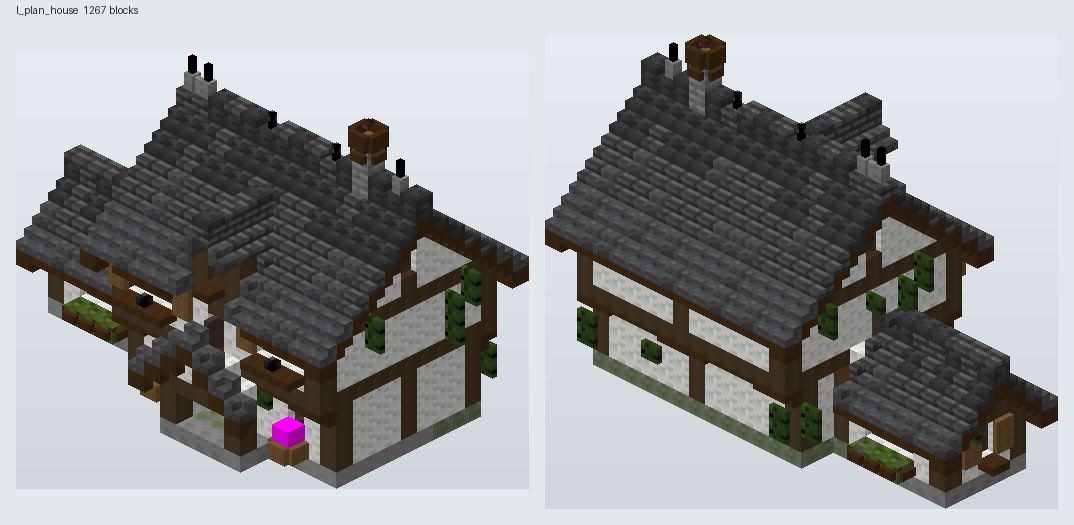
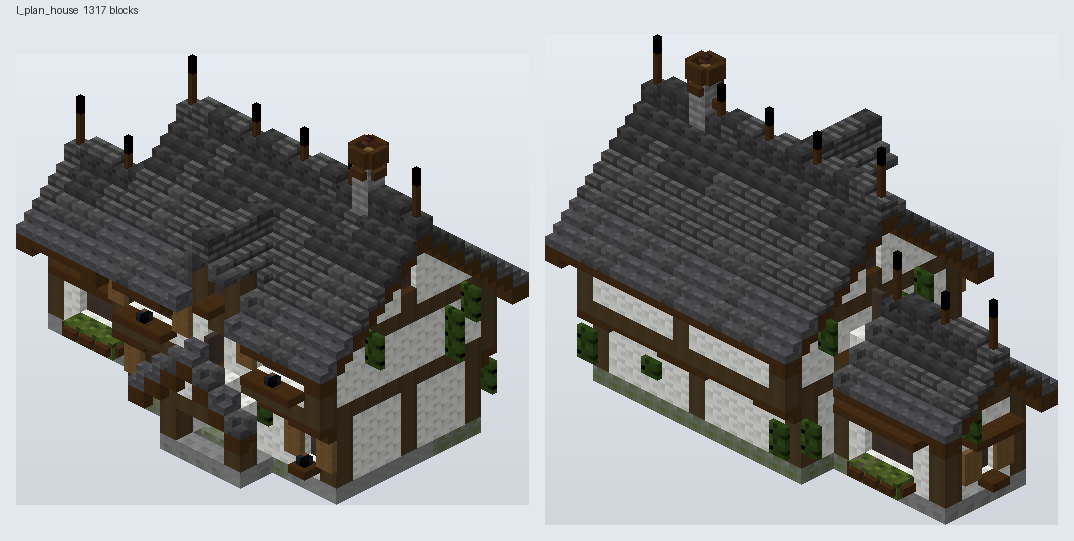
minecraft-builder: wings rise to meet the main eave, windows never open onto a roof, per-storey materials (stone piers), ridge spikes by default
Claude-Session: https://claude.ai/code/session_01A4uWhX18xXyhyv2GR6HyHU

Changed region(s): [[0.0, 0.061, 1.0, 0.9448], [0.338, 0.7619, 0.4609, 0.8838], [0.0307, 0.0, 0.1229, 0.0305]]

diff --git a/.claude/skills/minecraft-builder/scripts/parts.py b/.claude/skills/minecraft-builder/scripts/parts.py
@@ -445,8 +445,16 @@ def _body(ctx, s, st):
         floors.append(f); rects.append(list(r)); f += h
     plate = floors[-1] + storeys[-1] - 1
     posts_of = {}
+    base_M, base_fk, fk_of = M, fk, []
+    sov = s.get("storey_style", [])
     for i, (fl, rr, h) in enumerate(zip(floors, rects, storeys)):
         x0, z0, x1, z1 = rr
+        ov = sov[i] if i < len(sov) and sov[i] else {}
+        if ov:      # this storey in its own materials (a stone ground floor under a timber upper, 02-frame)
+            sst = dict(st); sst.update({k: v for k, v in ov.items() if k != "frame_kind"}); sst["_name"] = f"{st['_name']}.s{i}"
+            M = (lambda sst: (lambda role: ctx.mat(sst, role)))(sst); fk = ov.get("frame_kind", base_fk)
+        else: M, fk = base_M, base_fk
+        fk_of.append(fk)
         # ---- 3 floors: the floor layer (upper floors; ground floor done with the plinth)
         if i > 0:
             for x in range(x0 + 1, x1):
@@ -466,12 +474,14 @@ def _body(ctx, s, st):
                         else:
                             ctx.set(x, yy, z, "walls", "full", M("infill"))
                         continue
-                    if corner or t in posts:
+                    if fk == "piers" and corner:     # stone corner piers, timber posts and logs between
+                        ctx.set(x, yy, z, "frame", "full", M("pier") if "pier" in (ov or st) else M("quoin"))
+                    elif corner or t in posts:
                         ctx.set(x, yy, z, "frame", "full", M("frame"), axis="y")
                     elif beam:
                         ctx.set(x, yy, z, "frame", "full", M("frame"), axis=ax)
                     else:
-                        ctx.set(x, yy, z, "walls", "full", M("infill"))
+                        ctx.set(x, yy, z, "walls", "full", M("infill"), axis="y")   # log infill stands upright
                     if fk == "proud" and (corner or t in posts or beam):
                         ox, oz = DIRS[sd]
                         ctx.set(x + ox, yy, z + oz, "frame", "full", M("frame"), axis="y" if (corner or t in posts) else ax)
@@ -495,13 +505,36 @@ def _body(ctx, s, st):
                             x, z = wall_cell(rr, sd, t)
                             if min(t - a_, b_ - t) == 1: ctx.set(x, fl - 1, z, "frame", "slab", M("trim"), half="top")
                             else: ctx.set(x, fl - 1, z, "frame", "trapdoor", M("trim"), open=False, half="top", facing=sd)
+    M, fk = base_M, base_fk
     if fk == "stone" and len(storeys) > 1:   # string-course corners wrap with outer-corner stairs
         for i in range(1, len(storeys)):
             x0, z0, x1, z1 = rects[i]
             for (cx, cz, fa, fb) in ((x0 - 1, z0 - 1, "n", "w"), (x1 + 1, z0 - 1, "n", "e"), (x0 - 1, z1 + 1, "s", "w"), (x1 + 1, z1 + 1, "s", "e")):
                 fc, cn = corner_stair(fa, fb)
                 ctx.set(cx, floors[i], cz, "details", "stairs", M("infill"), facing=fc, half="top", corner=cn)
-    # ---- 5 openings
+    return {"floors": floors, "rects": rects, "plate": plate, "fk": fk, "y": y, "plinth": plinth, "storeys": storeys,
+            "posts_of": posts_of, "fk_of": fk_of}
+
+
+def _openings(ctx, s, st, B, H_blocks, H_extra, others):
+    """Stage 5 for one block, run once every roof field is known, so no window opens onto a roof: a
+    window is left out when another block's roof is in front of it or above its sill (it would look into
+    that roof or its attic), when a porch roof crosses the glass, when its wall faces another block, and
+    when the storey is too short for it under its own roof (no shutters left standing on a roof)."""
+    floors, rects, storeys, plinth, fk, plate = B["floors"], B["rects"], B["storeys"], B["plinth"], B["fk"], B["plate"]
+    posts_of = B["posts_of"]
+    inside_other = lambda c: any(r[0] <= c[0] <= r[2] and r[1] <= c[1] <= r[3] for ob in others for r in ob["rects"])
+    def blocked(rr, sd, t, fl, ww, wh, dropped):
+        ox, oz = DIRS[sd]; rx, rz = RIGHT_OF[sd]
+        x, z = wall_cell(rr, sd, t); top = fl + 1 + wh
+        if top > (plate if rr is rects[-1] else fl + storeys[rects.index(rr)] - 1): return "runs into its roof"
+        for k in range(-(ww // 2) - 1, ww // 2 + 2):
+            for out in (1, 2, 3):
+                c = (x + rx * k + ox * out, z + rz * k + oz * out)
+                if out == 1 and inside_other(c): return "faces another block"
+                if H_blocks.get(c, -99) >= fl + 1: return "looks onto a roof"
+                if fl + 1 <= H_extra.get(c, -99) <= top + 1: return "a porch roof crosses it"
+        return None
     dspec = s.get("door", {"side": "s"})
     dside, dt = (dspec or {}).get("side", "s"), (dspec or {}).get("at", 0)
     if dspec:
@@ -511,6 +544,7 @@ def _body(ctx, s, st):
     skip = {(b.get("side", "s"), b.get("storey", 1), b.get("at", 0)) for b in s.get("balconies", [])}
     wspec = s.get("windows", "auto")
     shutter_share = s.get("shutters", 0.3 if fk != "proud" else 0.0)
+    y = B["y"]
     for i, (fl, rr, h) in enumerate(zip(floors, rects, storeys)):
         for sd in "nsew":
             if wspec != "auto":
@@ -522,12 +556,15 @@ def _body(ctx, s, st):
                 t = wv["at"]; ww = wv.get("w", 1); wh = wv.get("h", 2)
                 if i == 0 and sd == dside and abs(t - dt) <= 1 + ww // 2: continue
                 if any(sd == bs and i == bi and abs(t - bt) <= 1 + ww // 2 for bs, bi, bt in skip): continue
+                why = blocked(rr, sd, t, fl, ww, wh, None)
+                if why:
+                    if wspec != "auto": ctx.log.append(f"{st['_name']}: window {sd} storey {i} at {t} left out: {why}")
+                    continue
                 head_room = (fl + h) - (fl + 2 + wh)
                 sh = wv.get("shutters")
                 if sh is None:   # symmetric pairs across a front, about 30% (05: shutters)
                     sh = shutter_share > 0 and h3(abs(t), i, "nsew".index(sd), 17) < shutter_share and ww in (1, 3)
-                window(ctx, rr, sd, t, fl, st, ww, wh, head_room, fk, sh, wv.get("sill"))
-    return {"floors": floors, "rects": rects, "plate": plate, "fk": fk, "y": y, "plinth": plinth, "storeys": storeys}
+                window(ctx, rr, sd, t, fl, st, ww, wh, head_room, B["fk_of"][i], sh, wv.get("sill"))
 
 
 def _roof_of(ctx, s, st, B, k=0):
@@ -687,13 +724,22 @@ def house(ctx, s):
     B = _body(ctx, s, st)
     blocks = [(s, st, B)]
     for k, wg in enumerate(s.get("wings", [])):
-        ws = {key: v for key, v in s.items() if key in ("style", "materials", "plinth", "y", "frame", "bay", "shutters", "storeys")}
+        ws = {key: v for key, v in s.items() if key in ("style", "materials", "plinth", "y", "frame", "bay", "shutters", "storeys", "storey_style")}
         ws.update({"door": None, "chimney": None}); ws.update(wg)
         wst = _style(ctx, ws, st if "style" not in wg else None)
+        if ws.get("join", "eave") == "eave":   # a wing's ridge must reach the main eave so the roofs join (06)
+            sty = list(ws.get("storeys", [5])); wy = ws.get("y", 0) + ws.get("plinth", 1) - 1
+            wr = ws["rect"]; rs = ws.get("roof", {})
+            Fw, _ = roof_field(wr, rs.get("type", "gable"), rs.get("ridge"), rs.get("overhang", 1), rs.get("verge", 1),
+                               rs.get("pitch", 1), wy + sum(sty) - 1)
+            gap = B["plate"] - max(v[0] for v in Fw.values())
+            if gap > 0:
+                sty[-1] += gap; ws = dict(ws, storeys=sty)
+                ctx.log.append(f"{st['_name']}: wing {k + 1} top storey raised by {gap} so its ridge meets the main eave (\"join\": \"none\" keeps it low)")
         blocks.append((ws, wst, _body(ctx, ws, wst)))
     if len(blocks) > 1: _join(ctx, blocks)
     for b in s.get("balconies", []): _balcony(ctx, b, st, B)
-    # ---- 6 roof: every block's roof in one height field, so valleys close (06 connecting roofs)
+    # ---- 6 roof fields first (06 connecting roofs), so openings can keep clear of every roof
     roofs = [(*_roof_of(ctx, bs, bst, bB, k), bst, bB) for k, (bs, bst, bB) in enumerate(blocks)]
     Fmain, rmain = roofs[0][0], roofs[0][1]
     extra = []
@@ -701,6 +747,23 @@ def house(ctx, s):
         got = _dormer_fields(ctx, d, st, B, Fmain, rmain)
         if got: extra.append(got)
     if s.get("porch"): extra.append(_porch(ctx, s["porch"] if isinstance(s["porch"], dict) else {}, st, B))
+    H_extra = {}
+    for F, r in extra:
+        if r.get("porch"):
+            for c, v in F.items(): H_extra[c] = max(H_extra.get(c, -99), v[0])
+    # ---- 5 openings, block by block
+    for k, (bs, bst, bB) in enumerate(blocks):
+        Hb = {}
+        for j, (F, r, *_x) in enumerate(roofs):
+            if j == k: continue
+            for c, v in F.items(): Hb[c] = max(Hb.get(c, -99), v[0])
+        _openings(ctx, bs, bst, bB, Hb, H_extra, [ob for j, (_a, _b, ob) in enumerate(blocks) if j != k])
+    # a wing roof that ends against a taller wall: say so (it reads as unfinished; 06 connecting roofs)
+    for k, (F, r, bst, bB) in enumerate(roofs[1:], 1):
+        top = max(v[0] for v in F.values())
+        if top < B["plate"] and any(any(rr[0] - 1 <= c[0] <= rr[2] + 1 and rr[1] - 1 <= c[1] <= rr[3] + 1 for rr in B["rects"]) for c in F):
+            ctx.log.append(f"{st['_name']}: wing {k}'s ridge ({top}) stays below the main eave ({B['plate']}), so its roof stops "
+                           "against the main wall; give the wing the main block's storeys so the roofs join")
     chs = []
     for bs, bst, bB in blocks:
         ch = bs.get("chimney", "auto")
@@ -723,8 +786,8 @@ def house(ctx, s):
     for (F, r, bst, bB), (bs, _, _) in zip(roofs, blocks):
         tr = bs.get("trusses", s.get("trusses", "auto"))
         if tr: trusses(ctx, r, Hf, bst, bB, tr)
-        fin = bs.get("finials", s.get("finials"))
-        if fin: finials(ctx, r, Hf, fin, {c for c, _, _ in chs})
+        fin = bs.get("finials", s.get("finials", "spikes"))
+        if fin: finials(ctx, r, Hf, fin, {c for c, _, _ in chs}, bst)
     if s.get("vines"): vines(ctx, blocks, s["vines"])
     return B
 
@@ -754,24 +817,31 @@ def trusses(ctx, r, H, st, B, mode="auto"):
                     ctx.setif(x, P + 1 + d - (len(cells) // 2 - 2), z, "roof", "stairs", ctx.mat(st, "trim"), facing=f, half="top")
 
 
-def finials(ctx, r, H, kind, skip=()):
-    """07: a spike every 3 or 5 along the ridge, taller finials at the gable peaks. kind: "spikes" (end rods),
-    "rods" (a wall post with a lightning rod), or "peaks" (gable peaks only)."""
+def finials(ctx, r, H, kind, skip=(), st=None):
+    """07 / 06 roof-types (Mateo 2026-11-12: standard on every pitched ridge): a spike every 3 along the
+    ridge, a fence post (wood trim) or wall post (stone trim) with a lightning rod on top, in place of the
+    ridge slab; taller finials (two posts) at the gable peaks. kind: "spikes" (default), "peaks" (peaks
+    only), "endrods" (end rods along the ridge, finials at the peaks), false for none."""
+    if r["kind"] not in ("gable", "hip"): return
     x0, z0, x1, z1 = r["rect"]
-    top = max(H.get(c, -99) for c in H if x0 <= c[0] <= x1 and z0 <= c[1] <= z1)
-    line = [c for c in H if x0 <= c[0] <= x1 and z0 <= c[1] <= z1 and H[c] == top]
-    if not line: return
-    line.sort()
-    ends = {line[0], line[-1]}
+    own = r.get("_F", H)
+    cells = [c for c in own if H.get(c) == own[c][0] if isinstance(own[c], tuple)] if own is not H else list(H)
+    cells = [c for c in cells if x0 - 1 <= c[0] <= x1 + 1 and z0 - 1 <= c[1] <= z1 + 1]
+    if not cells: return
+    top = max(H[c] for c in cells)
+    line = sorted(c for c in cells if H[c] == top)
+    post = ctx.mat(st, "trim") if st else "spruce_planks"
+    n = len(line); mid = n // 2
     for k, (x, z) in enumerate(line):
         if (x, z) in skip: continue
-        peak = (x, z) in ends
-        if kind == "peaks" and not peak: continue
-        if not peak and k % 4: continue
+        peak = k in (0, n - 1)
+        if not peak and (kind == "peaks" or (k - mid) % 3 or k in (1, n - 2)): continue
         y = top + 1                                     # in place of the ridge slab
-        if kind == "rods" or peak:
-            ctx.set(x, y, z, "details", "post", "cobblestone")
-        ctx.set(x, y + (1 if (kind == "rods" or peak) else 0), z, "details", raw="lightning_rod" if (kind == "rods" or peak) else "end_rod")
+        ctx.clear(x, y, z)
+        if kind == "endrods" and not peak:
+            ctx.set(x, y, z, "details", raw="end_rod"); continue
+        for j in range(2 if peak else 1): ctx.set(x, y + j, z, "details", "post", post)
+        ctx.set(x, y + (2 if peak else 1), z, "details", raw="lightning_rod")
 
 
 def vines(ctx, blocks, share=0.15):

diff --git a/.claude/skills/minecraft-builder/reference/parts.md b/.claude/skills/minecraft-builder/reference/parts.md
@@ -34,13 +34,15 @@ is the offset from the wall's centre block, positive to the right as seen from o
 | `shutters` | 0.3 (0 on proud frames) | share of windows with shutters, chosen in mirror pairs across each front (05: at most about 30%) |
 | `roof` | gable, long ridge | see Roofs |
 | `chimney` | `auto` | Mateo's chimney through the ridge, 2 in from a gable end; `[[x, z], ...]` to place; `false` for none |
-| `wings` | [] | joined blocks for L, T, U and cross plans: `[{"rect": [...], "storeys": [5, 4], "roof": {"ridge": "z"}}]`. Each wing takes the house's style unless it names its own, gets no door or chimney unless given. Walls, windows and sills between blocks are opened up; all roofs share one height field so valleys close (06 connecting roofs). Make wings narrower or lower than the main block so their roof sits below the main ridge |
+| `wings` | [] | joined blocks for L, T, U and cross plans: `[{"rect": [...], "storeys": [5, 4], "roof": {"ridge": "z"}}]`. Each wing takes the house's style unless it names its own, gets no door or chimney unless given. Walls, windows and sills between blocks are opened up; all roofs share one height field so valleys close (06 connecting roofs). Make wings narrower or lower than the main block so their roof sits below the main ridge. A wing whose ridge would stay below the main eave has its top storey raised until the roofs meet (`"join": "none"` on the wing to keep it low) |
 | `dormers` | [] | `[{"side": "s", "at": 0, "w": 3, "h": 3}]` on an eave side (along the ridge): front wall on the wall line with posts and a window, cheeks down to the main roof, its own bare gable roof running back into the main roof |
 | `porch` | none | `{"side": "s", "at": 0, "w": 5, "d": 3, "h": 3}`: plinth-stone floor, log posts on the outer corners, a tie beam, a small gable roof with barge boards that stops at the wall. Best on a ground floor that is not jettied |
 | `balconies` | [] | `[{"side": "e", "storey": 1, "at": 0, "w": 3, "d": 1}]`: a door out, a trim floor on upside-down stair brackets, a fence rail (`rail` to change it); the window there is left out |
+| (windows) | | a window is left out, with its shutters and sill, when another block's roof is in front of it or above its sill, when a porch roof crosses the glass, when its wall faces another block, or when the storey is too short for it under its own roof; the summary says which when you placed it by hand |
 | `brackets` | `arched` | under jetties: stair under each post, then top slab, then flat trapdoors to mid-bay (02 arched supports); `stairs` for the plain stair under each post only |
 | `trusses` | `auto` | 06 step 8: tie beam at the wall plate on every inner post line, king post to the ridge, braces on spans of 9+. `auto` builds them on spans of 9 or more inside; `true` always; `false` never |
-| `finials` | none | `spikes` (end rods every 4 along the ridge, wall post and lightning rod at the gable peaks), `rods` (wall post and lightning rod each time), `peaks` (gable peaks only) |
+| `finials` | `spikes` | standard on every pitched ridge (Mateo 2026-11-12): a trim fence or wall post with a lightning rod every 3 along the ridge in place of the ridge slab, two posts tall at the gable peaks. `peaks` = peaks only, `endrods` = end rods along the ridge, `false` = none |
+| `storey_style` | none | per-storey materials, e.g. a stone ground floor under a timber upper: `[{"frame_kind": "piers", "pier": "stone_bricks", "infill": "stripped_spruce_log"}, {}]`. `piers` = stone corner piers, timber posts, upright log infill. Wings inherit it |
 | `vines` | none | share of wall cells that start a vine 1 to 3 long (0.15 is plenty); more on the north side, less on the south |
 
 ### What each stage places
